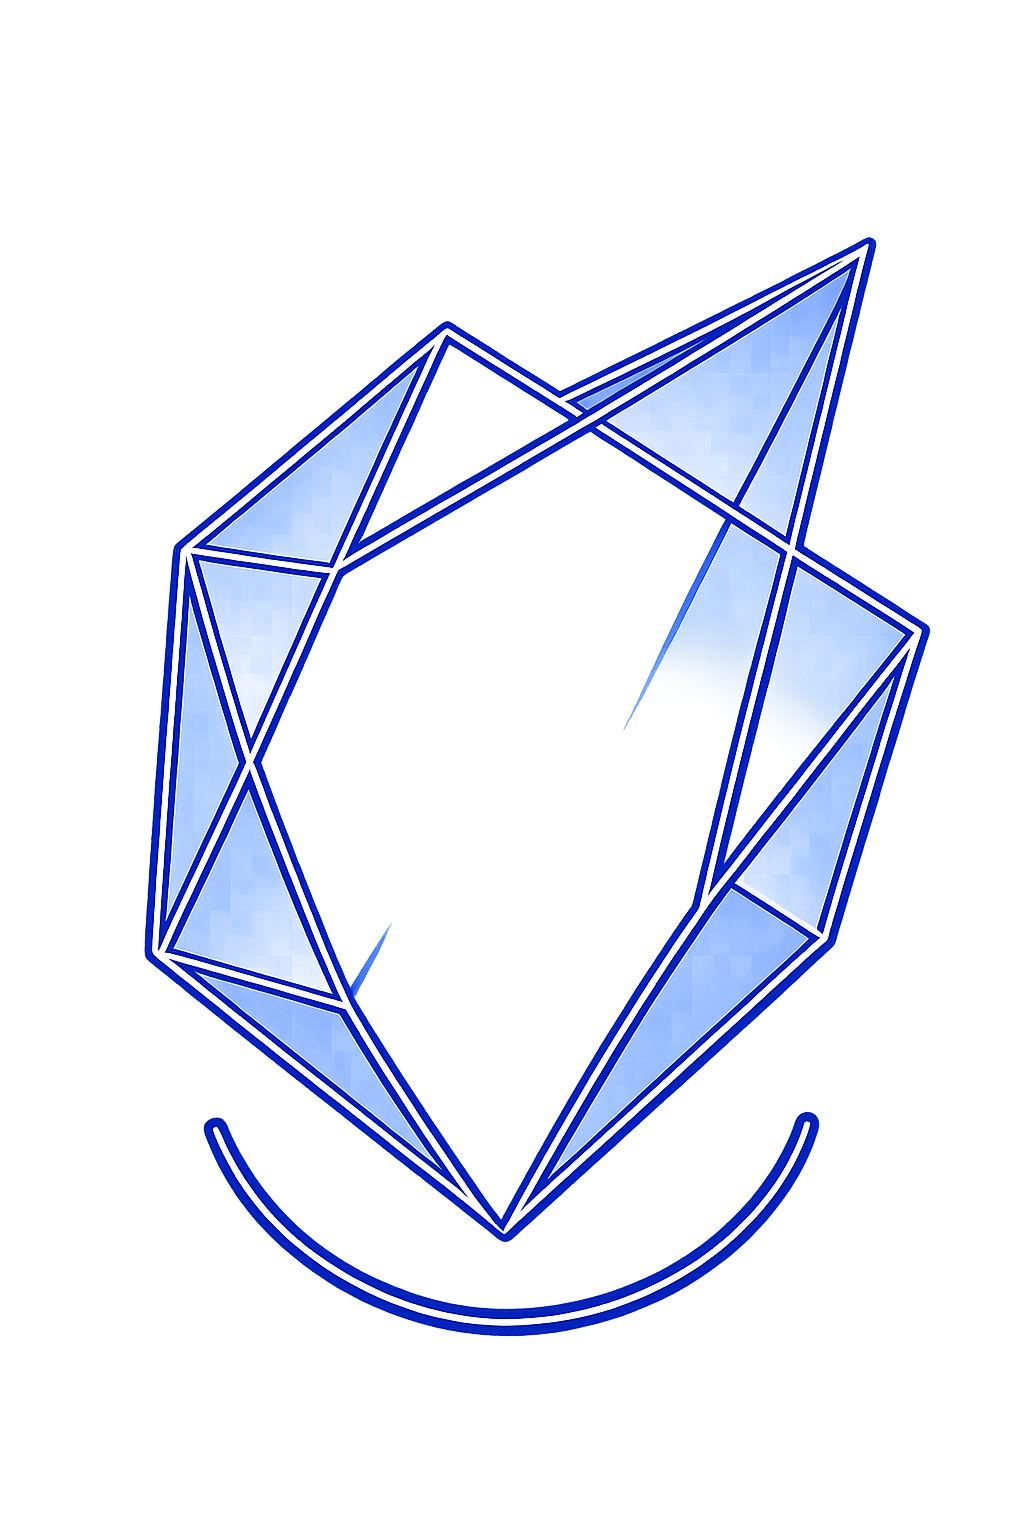
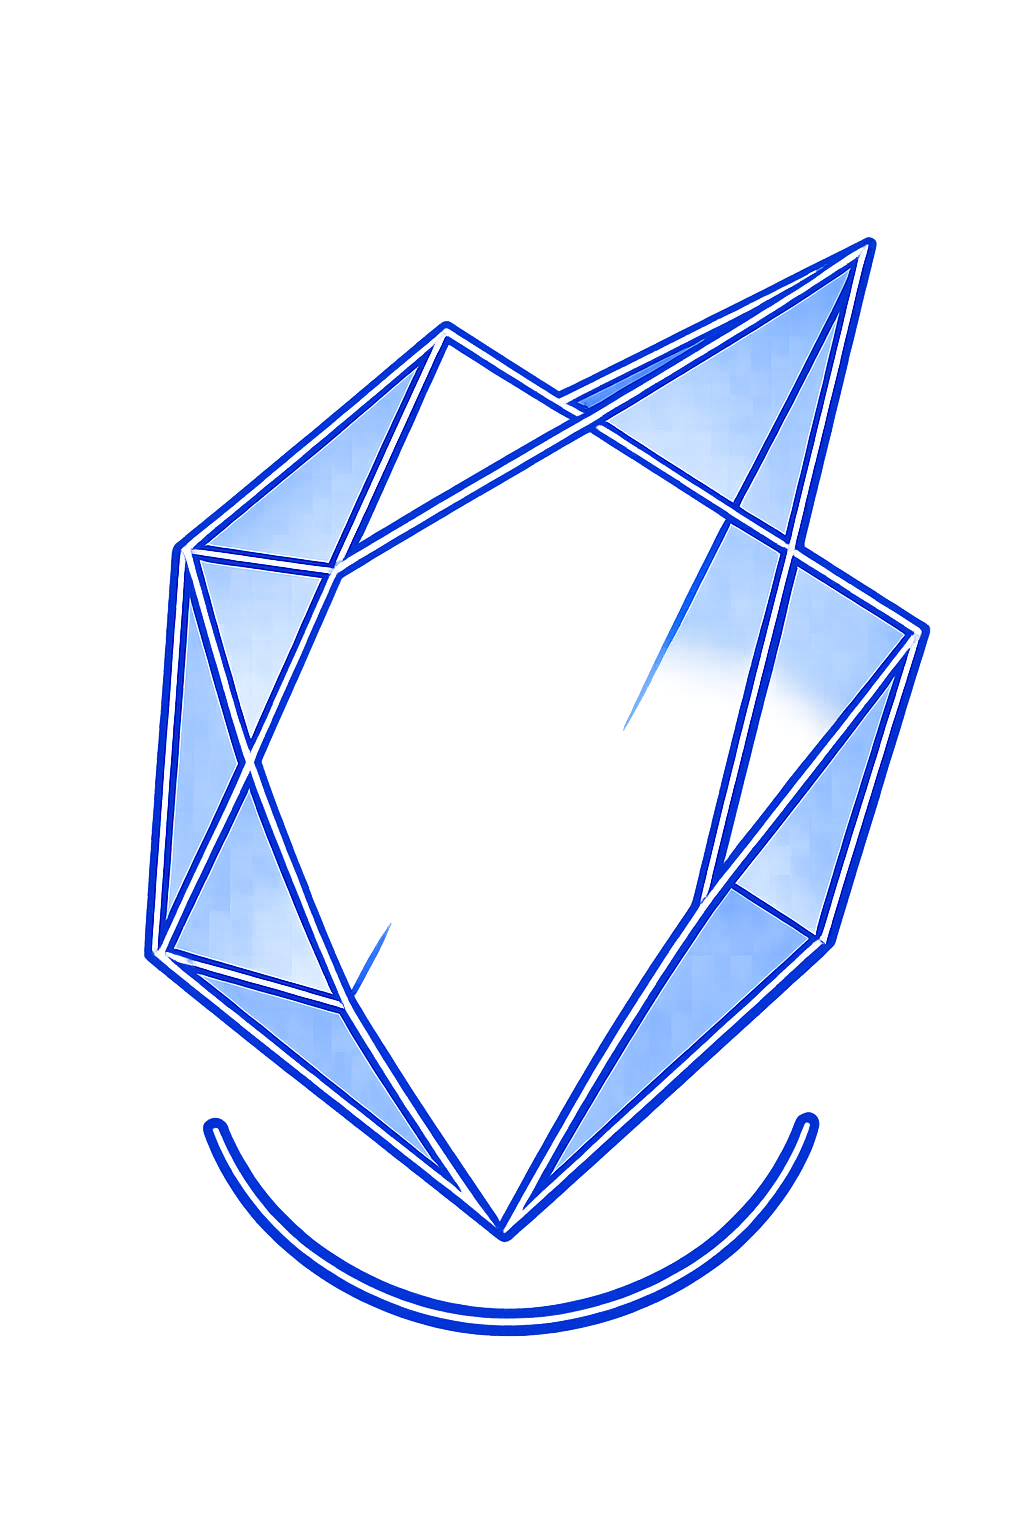
fin

diff --git a/index.html b/index.html
@@ -257,6 +257,7 @@
             height: 100%;
             object-fit: contain;
             pointer-events: none;
+            opacity: 0.8;
         }
 
         .skill-crystal-content {
@@ -854,6 +855,169 @@
             .hamburger { width: 34px; height: 34px; }
             .mobile-menu a { font-size: 9px; padding: 12px 24px; letter-spacing: 2px; }
         }
+
+        /* ════════════════════════════════════════════════════
+           SAYIT REDIRECT MODAL
+        ════════════════════════════════════════════════════ */
+        .sayit-modal-overlay {
+            position: fixed;
+            inset: 0;
+            z-index: 9999;
+            background: rgba(3, 10, 24, 0.85);
+            backdrop-filter: blur(8px);
+            display: flex;
+            align-items: center;
+            justify-content: center;
+            opacity: 0;
+            visibility: hidden;
+            transition: opacity 0.35s ease, visibility 0.35s ease;
+        }
+        .sayit-modal-overlay.active {
+            opacity: 1;
+            visibility: visible;
+        }
+
+        .sayit-modal {
+            background: linear-gradient(145deg, rgba(8, 17, 40, 0.95), rgba(6, 13, 28, 0.98));
+            border: 1px solid rgba(26, 111, 255, 0.35);
+            border-radius: 16px;
+            padding: 2.5rem 2rem 2rem;
+            max-width: 420px;
+            width: 90%;
+            text-align: center;
+            position: relative;
+            overflow: hidden;
+            box-shadow:
+                0 0 40px rgba(26, 111, 255, 0.15),
+                0 20px 60px rgba(0, 0, 0, 0.6),
+                inset 0 1px 0 rgba(96, 165, 250, 0.1);
+            transform: scale(0.85) translateY(30px);
+            transition: transform 0.4s cubic-bezier(.22, 1, .36, 1);
+        }
+        .sayit-modal-overlay.active .sayit-modal {
+            transform: scale(1) translateY(0);
+        }
+
+        /* Top glow line */
+        .sayit-modal::before {
+            content: '';
+            position: absolute;
+            top: 0;
+            left: 10%;
+            right: 10%;
+            height: 2px;
+            background: linear-gradient(90deg, transparent, #00d4ff, #1a6fff, transparent);
+            border-radius: 2px;
+        }
+
+        /* Corner accents */
+        .sayit-modal::after {
+            content: '';
+            position: absolute;
+            inset: 0;
+            border-radius: 16px;
+            background:
+                radial-gradient(ellipse 50% 50% at 0% 0%, rgba(0, 212, 255, 0.06) 0%, transparent 70%),
+                radial-gradient(ellipse 50% 50% at 100% 100%, rgba(26, 111, 255, 0.06) 0%, transparent 70%);
+            pointer-events: none;
+        }
+
+        .sayit-modal-icon {
+            width: 56px;
+            height: 56px;
+            margin: 0 auto 1.25rem;
+            background: rgba(26, 111, 255, 0.12);
+            border: 1px solid rgba(26, 111, 255, 0.3);
+            border-radius: 50%;
+            display: flex;
+            align-items: center;
+            justify-content: center;
+            position: relative;
+            z-index: 1;
+        }
+        .sayit-modal-icon i {
+            font-size: 1.5rem;
+            color: #00d4ff;
+            filter: drop-shadow(0 0 8px rgba(0, 212, 255, 0.5));
+        }
+
+        .sayit-modal-title {
+            font-family: 'Orbitron', monospace;
+            font-size: 1.1rem;
+            font-weight: 700;
+            color: #ffffff;
+            letter-spacing: 1.5px;
+            text-transform: uppercase;
+            margin-bottom: 0.75rem;
+            position: relative;
+            z-index: 1;
+        }
+
+        .sayit-modal-text {
+            font-size: 0.95rem;
+            color: #94a3b8;
+            line-height: 1.7;
+            margin-bottom: 0.5rem;
+            position: relative;
+            z-index: 1;
+        }
+
+        .sayit-modal-url {
+            display: inline-block;
+            font-family: 'Space Mono', monospace;
+            font-size: 0.85rem;
+            color: #60a5fa;
+            background: rgba(26, 111, 255, 0.1);
+            border: 1px solid rgba(26, 111, 255, 0.2);
+            border-radius: 6px;
+            padding: 0.35rem 0.75rem;
+            margin-bottom: 1.75rem;
+            position: relative;
+            z-index: 1;
+        }
+
+        .sayit-modal-buttons {
+            display: flex;
+            gap: 12px;
+            justify-content: center;
+            position: relative;
+            z-index: 1;
+        }
+
+        .sayit-btn {
+            flex: 1;
+            padding: 0.75rem 1.5rem;
+            border-radius: 8px;
+            font-family: 'Orbitron', monospace;
+            font-size: 0.7rem;
+            font-weight: 700;
+            letter-spacing: 1.5px;
+            text-transform: uppercase;
+            cursor: pointer;
+            transition: all 0.3s ease;
+            border: none;
+        }
+
+        .sayit-btn-cancel {
+            background: rgba(255, 255, 255, 0.05);
+            border: 1px solid rgba(255, 255, 255, 0.15) !important;
+            color: #7ca8d4;
+        }
+        .sayit-btn-cancel:hover {
+            background: rgba(255, 255, 255, 0.1);
+            border-color: rgba(255, 255, 255, 0.3) !important;
+            color: #ffffff;
+        }
+
+        .sayit-btn-confirm {
+            background: linear-gradient(135deg, #1a6fff, #00d4ff);
+            color: #ffffff;
+            box-shadow: 0 4px 20px rgba(26, 111, 255, 0.3);
+        }
+        .sayit-btn-confirm:hover {
+            transform: translateY(-2px);
+            box-shadow: 0 8px 30px rgba(26, 111, 255, 0.5), 0 0 15px rgba(0, 212, 255, 0.3);
+        }
     </style>
 </head>
 
@@ -1162,7 +1326,7 @@
                     </div>
                     <div class="flex items-center gap-4 p-5 bg-white/5 border border-blue-500/20 rounded-xl hover:border-blue-400/60 hover:bg-blue-900/10 transition-all shadow-lg shadow-black/20">
                         <i class="fas fa-gem text-blue-400 text-xl drop-shadow-[0_0_10px_rgba(96,165,250,0.8)]"></i>
-                        <span class="font-medium text-[0.95rem]">Develop payment systems using blockchains</span>
+                        <span class="font-medium text-[0.95rem]">Develop blockchain-based payment systems</span>
                     </div>
                 </div>
             </div>
@@ -1175,6 +1339,26 @@
             <h2 class="text-5xl font-bold text-center mb-16 text-blue-400">My Projects</h2>
 
             <div class="grid grid-cols-1 md:grid-cols-2 gap-8">
+
+                <div class="project-row" onclick="showSayitModal()">
+                    <div class="mb-4 overflow-hidden rounded-xl border border-blue-500/20">
+                        <img src="sayit.png">
+                    </div>
+                    <div class="flex justify-between items-start mb-4">
+                        <h3 class="text-2xl font-bold">Sayit</h3>
+                        <span class="text-blue-400">2025</span>
+                    </div>
+                    <p class="text-gray-400 mb-4">
+                        A web app that lets people message you anonymously. You need to create an account and get your unique link, then share it on social media. You will receive a notification on your email and your dashboard whenever someone visits your link and sends you a message . 
+                    </p>
+                    <div class="flex flex-wrap">
+                        <span class="project-tech">PHP</span>
+                        <span class="project-tech">MySQL</span>
+                        <span class="project-tech">JS</span>
+                        
+                    </div>
+                </div>
+
                 <div class="project-row" onclick="window.location.href='tikDown/tikDown.html'">
                     <div class="mb-4 overflow-hidden rounded-xl border border-blue-500/20 bg-black p-2">
                         <img src="tikDown.png" alt="tikDown project cover"
@@ -1401,6 +1585,41 @@
                 }
             });
         }
+    </script>
+
+    <!-- Sayit Redirect Modal -->
+    <div class="sayit-modal-overlay" id="sayitModal">
+        <div class="sayit-modal">
+            <div class="sayit-modal-icon">
+                <i class="fas fa-external-link-alt"></i>
+            </div>
+            <div class="sayit-modal-title">Redirection externe</div>
+            <p class="sayit-modal-text">
+                Vous allez être redirigé vers un site externe.<br>Une nouvelle fenêtre va s'ouvrir.
+            </p>
+            <div class="sayit-modal-url">sayit.gt.tc</div>
+            <div class="sayit-modal-buttons">
+                <button class="sayit-btn sayit-btn-cancel" onclick="closeSayitModal()">Annuler</button>
+                <button class="sayit-btn sayit-btn-confirm" onclick="confirmSayit()">Continuer</button>
+            </div>
+        </div>
+    </div>
+
+    <script>
+        function showSayitModal() {
+            document.getElementById('sayitModal').classList.add('active');
+        }
+        function closeSayitModal() {
+            document.getElementById('sayitModal').classList.remove('active');
+        }
+        function confirmSayit() {
+            closeSayitModal();
+            window.open('https://sayit.gt.tc/', '_blank');
+        }
+        // Close on overlay click
+        document.getElementById('sayitModal').addEventListener('click', function(e) {
+            if (e.target === this) closeSayitModal();
+        });
     </script>
 </body>
 
